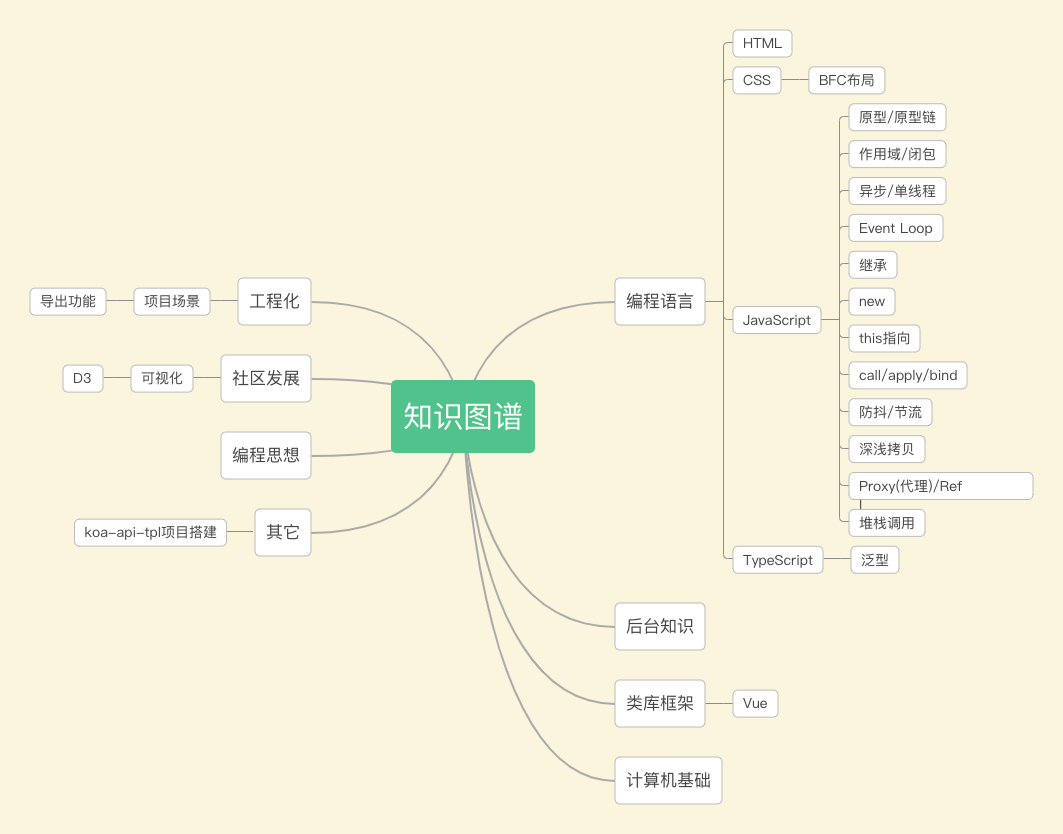
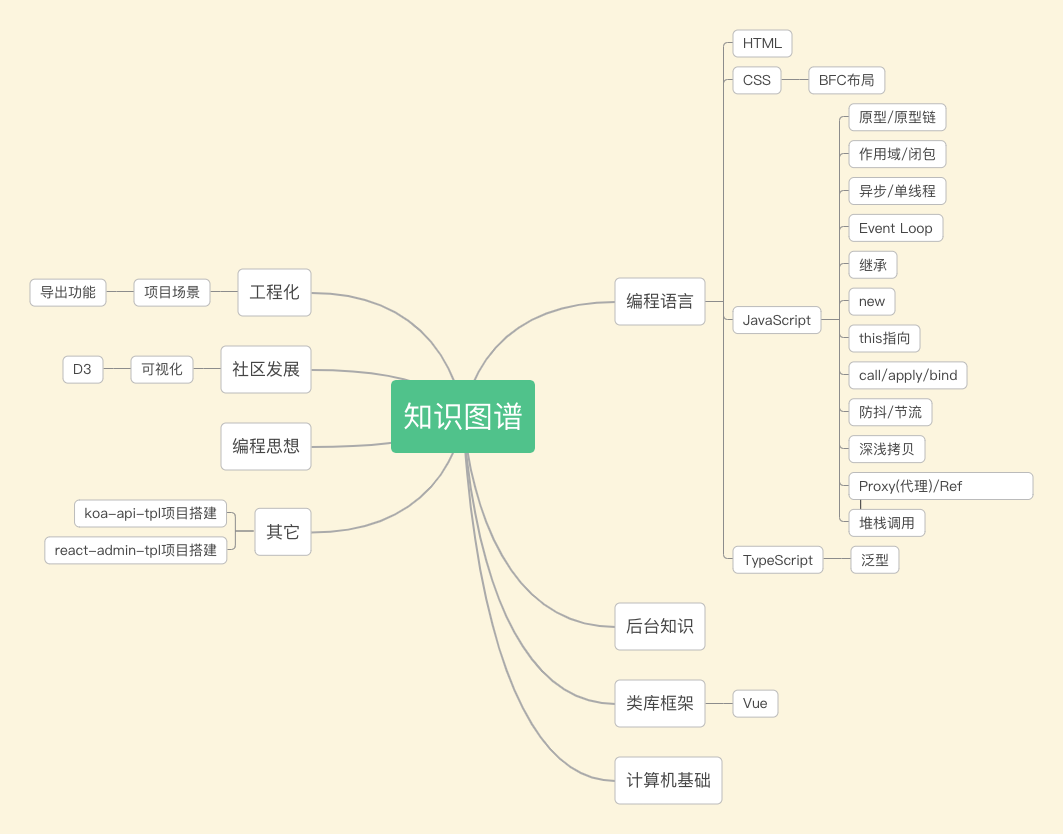
docs: react-admin-tpl项目搭建

Changed region(s): [[0.031, 0.3118, 0.3725, 0.6859], [0.4036, 0.4053, 0.4346, 0.4365], [0.3725, 0.3741, 0.4036, 0.4053]]

diff --git a/Other/react-admin-tpl项目搭建.md b/Other/react-admin-tpl项目搭建.md
@@ -1,0 +1,308 @@
+## 概述
+
+本文将以 react 为切入点，记录打造一个基于React生态系统的后台管理系统模板的过程，以此加深对 react 技术栈以及项目实战的理解。
+
+项目由 [create-react-app](https://create-react-app.dev/) 脚手架快速构建
+
+```
+npx create-react-app react-admin-tpl --template typescript
+```
+
+## 代码规范
+
+### ESLint+Prettier规范
+
+**ESLint关注代码质量, Prettier关注代码风格**
+
+**版本升级后可能会有风格变化，故可锁定版本号**
+
+ESLint 是一个Javascript Linter，帮助我们规范代码质量，提高团队开发效率。社区比较知名的代码规范：[standardjs](https://standardjs.com/readme-zhcn.html) 和 [airbnb](https://github.com/airbnb/javascript)
+
+Prettier 是一个能够统一团队编码风格的工具，能够极大的提高团队执行效率，统一的编码风格能很好的保证代码的可读性。
+
+使用 Create React App 创建的 React 应用，默认安装了 ESLint 依赖。
+
+package.json 文件中的 eslintConfig 属性只提供了用于发现常见错误的最小规则集：
+```
+"eslintConfig": {
+    "extends": "react-app"
+},
+```
+
+```
+npm install --save-dev @typescript-eslint/parser @typescript-eslint/eslint-plugin
+```
+
+- eslint: ESLint 的核心代码
+- @typescript-eslint/parser：ESLint 的解析器，用于解析typescript ，从而检查和规范 Typescript代码
+- @typescript-eslint/eslint-plugin：这是一个 ESLint 插件，包含了各类定义好的检测 Typescript 代码的规范
+
+使用推荐配置的两种方法：
+
+1. 修改 package.json 文件中的 eslintConfig 属性
+2. 创建 .eslintrc.* 文件
+
+在项目根目录下新建 .eslintrc.js 文件
+```
+module.exports = {
+  parser: "@typescript-eslint/parser", //定义ESLint的解析器
+  extends: ["plugin:@typescript-eslint/recommended"], //定义文件继承的子规范
+  plugins: ["@typescript-eslint"], //定义了该eslint文件所依赖的插件
+  parserOptions: {
+    ecmaVersion: 2020, // Allows for the parsing of modern ECMAScript features
+    sourceType: "module", // Allows for the use of imports
+    ecmaFeatures: {
+      jsx: true // Allows for the parsing of JSX
+    }
+  },
+  rules: {
+    "no-console": "off",
+    "no-debugger": "off",
+    "no-unused-vars": "off"
+  },
+  env: {
+    //指定代码的运行环境
+    browser: true,
+    node: true
+  }
+};
+```
+
+使用 Eslint 规范 React 代码
+```
+npm install --save-dev eslint-plugin-react
+```
+
+```
+module.exports = {
+  parser: "@typescript-eslint/parser", //定义ESLint的解析器
+  extends: ['plugin:react/recommended', "plugin:@typescript-eslint/recommended"], //定义文件继承的子规范
+  plugins: ["@typescript-eslint"], //定义了该eslint文件所依赖的插件
+  settings: {
+    //自动发现React的版本，从而进行规范react代码
+    react: {
+      pragma: "React",
+      version: "detect"
+    }
+  },
+  parserOptions: {
+    // 指定ESLint可以解析JSX语法
+    ecmaVersion: 2020, // Allows for the parsing of modern ECMAScript features
+    sourceType: "module", // Allows for the use of imports
+    ecmaFeatures: {
+      jsx: true // Allows for the parsing of JSX
+    }
+  },
+  rules: {
+    "no-console": "off",
+    "no-debugger": "off",
+    "no-unused-vars": "off"
+  },
+  env: {
+    //指定代码的运行环境
+    browser: true,
+    node: true
+  }
+};
+```
+
+结合 Prettier 规范代码
+```
+npm install --save-dev prettier eslint-config-prettier eslint-plugin-prettier
+```
+
+- Prettier：Prettier插件的核心代码
+- eslint-config-prettier：解决 ESLint 中的样式规范和 Prettier 中样式规范的冲突，以 Prettier的样式规范为准
+- eslint-plugin-prettier：将 Prettier 作为 ESLint 规范来使用
+
+根目录下创建 .prettierrc 文件
+```
+{
+  "printWidth": 100,
+  "tabWidth": 2,
+  "singleQuote": true,
+  "semi": false,
+  "proseWrap": "always",
+  "arrowParens": "avoid",
+  "bracketSpacing": true,
+  "endOfLine": "lf"
+}
+```
+
+修改 .eslintrc.js 文件，引入 Prettier
+```
+module.exports = {
+  parser: '@typescript-eslint/parser', //定义ESLint的解析器
+  extends: [
+    'plugin:react/recommended',
+    'plugin:@typescript-eslint/recommended',
+    'prettier/@typescript-eslint',
+    'plugin:prettier/recommended'
+  ], //定义文件继承的子规范
+  plugins: ['@typescript-eslint'], //定义了该eslint文件所依赖的插件
+  settings: {
+    //自动发现React的版本，从而进行规范react代码
+    react: {
+      pragma: 'React',
+      version: 'detect'
+    }
+  },
+  parserOptions: {
+    // 指定ESLint可以解析JSX语法
+    ecmaVersion: 2020, // Allows for the parsing of modern ECMAScript features
+    sourceType: 'module', // Allows for the use of imports
+    ecmaFeatures: {
+      jsx: true // Allows for the parsing of JSX
+    }
+  },
+  rules: {
+    'no-console': process.env.NODE_ENV === 'production' ? 'error' : 'off',
+    'no-debugger': process.env.NODE_ENV === 'production' ? 'error' : 'off',
+    'no-unused-vars': 'off'
+  },
+  env: {
+    //指定代码的运行环境
+    browser: true,
+    node: true
+  }
+}
+```
+
+*可以在根目录下新建 .eslintignore 文件，忽略对指定文件的校验*
+
+```
+# 不用校验的文件
+src/serviceWorker.ts
+src/setupTests.ts
+/public/*
+*.js
+```
+
+.prettierignore
+```
+**/*.svg
+*.lock
+*.png
+*.toml
+package.json
+LICENSE
+/dist
+commitlint.config.js
+docker
+Dockerfile*
+.dockerignore
+.DS_Store
+.editorconfig
+.eslintignore
+.gitignore
+.history
+.huskyrc
+.prettierignore
+yarn-error.log
+```
+
+修改package.json
+
+```
+"scripts": {
+    "lint": "eslint --ext .js,.jsx,.ts,.tsx --ignore-path .eslintignore .",
+    "lint:fix": "eslint --fix --ext .js,.jsx,.ts,.tsx --ignore-path .eslintignore .",
+    "format": "prettier --write \"src/**/*.ts\" \"src/**/*.tsx\""
+}
+```
+
+### 使用 husky lint-staged 来控制 git 提交之前的校验
+
+我们使用husky这个库来为我们添加pre-commit功能: npm install husky lint-staged --save-dev
+
+```
+// package.json
+
+"husky": {
+    "hooks": {
+      "pre-commit": "npm run lint"
+    }
+},
+```
+这里直接使用了.huskyrc配置文件
+
+使用commitlint规范git提交信息
+```
+npm install --save-dev @commitlint/cli @commitlint/config-conventional
+```
+在根目录新建一个 commitlint.config.js 文件，用作自定义一些commit提交规则，当然这一步也可以不做，直接使用常规校验也行
+```
+// commitlint.config.js
+
+module.exports = {
+  extends: ['@commitlint/config-conventional'],
+  rules: {
+    'type-enum': [
+      2,
+      'always',
+      [
+        'build',
+        'ci',
+        'chore',
+        'docs',
+        'feat',
+        'fix',
+        'perf',
+        'refactor',
+        'revert',
+        'style',
+        'test',
+      ],
+    ],
+    'type-case': [0],
+    'type-empty': [0],
+    'scope-empty': [0],
+    'scope-case': [0],
+    'subject-full-stop': [0, 'never'],
+    'subject-case': [0, 'never'],
+    'header-max-length': [0, 'always', 72],
+  },
+}
+```
+
+在之前的husky配置中，把commitlint的校验命令添加进去:
+```
+"husky": {
+    "hooks": {
+      "pre-commit": "npm run lint-staged",
+      "commit-msg": "commitlint -E HUSKY_GIT_PARAMS"
+    }
+},
+```
+
+在package.json中新增：
+```
+  "lint-staged": {
+    "src/**/*.{ts,tsx}": [
+      "npm run format",
+      "npm run lint:fix"
+    ]
+  },
+```
+
+此时git提交就会先执行校验。
+
+### CHANGELOG
+
+```
+npm install --save-dev conventional-changelog-cli
+```
+
+在package.json中新增: 
+```
+"changelog": "conventional-changelog -p angular -i CHANGELOG.md -s"
+```
+
+生成日志: npm run changelog
+
+conventional-changelog-cli不会覆盖任何以前的变更日志。 新增的日志基于自上一个commit的
+
+如果这是您第一次使用此工具，并且想要生成所有以前的变更日志，则可以执行：
+```
+conventional-changelog -p angular -i CHANGELOG.md -s -r 0
+```

diff --git a/README.md b/README.md
@@ -59,3 +59,4 @@
 ### 其他(Other)
 
 - [koa-api-tpl项目搭建](Other/koa-api-tpl项目搭建.md)
+- [react-admin-tpl项目搭建](Other/react-admin-tpl项目搭建.md)
